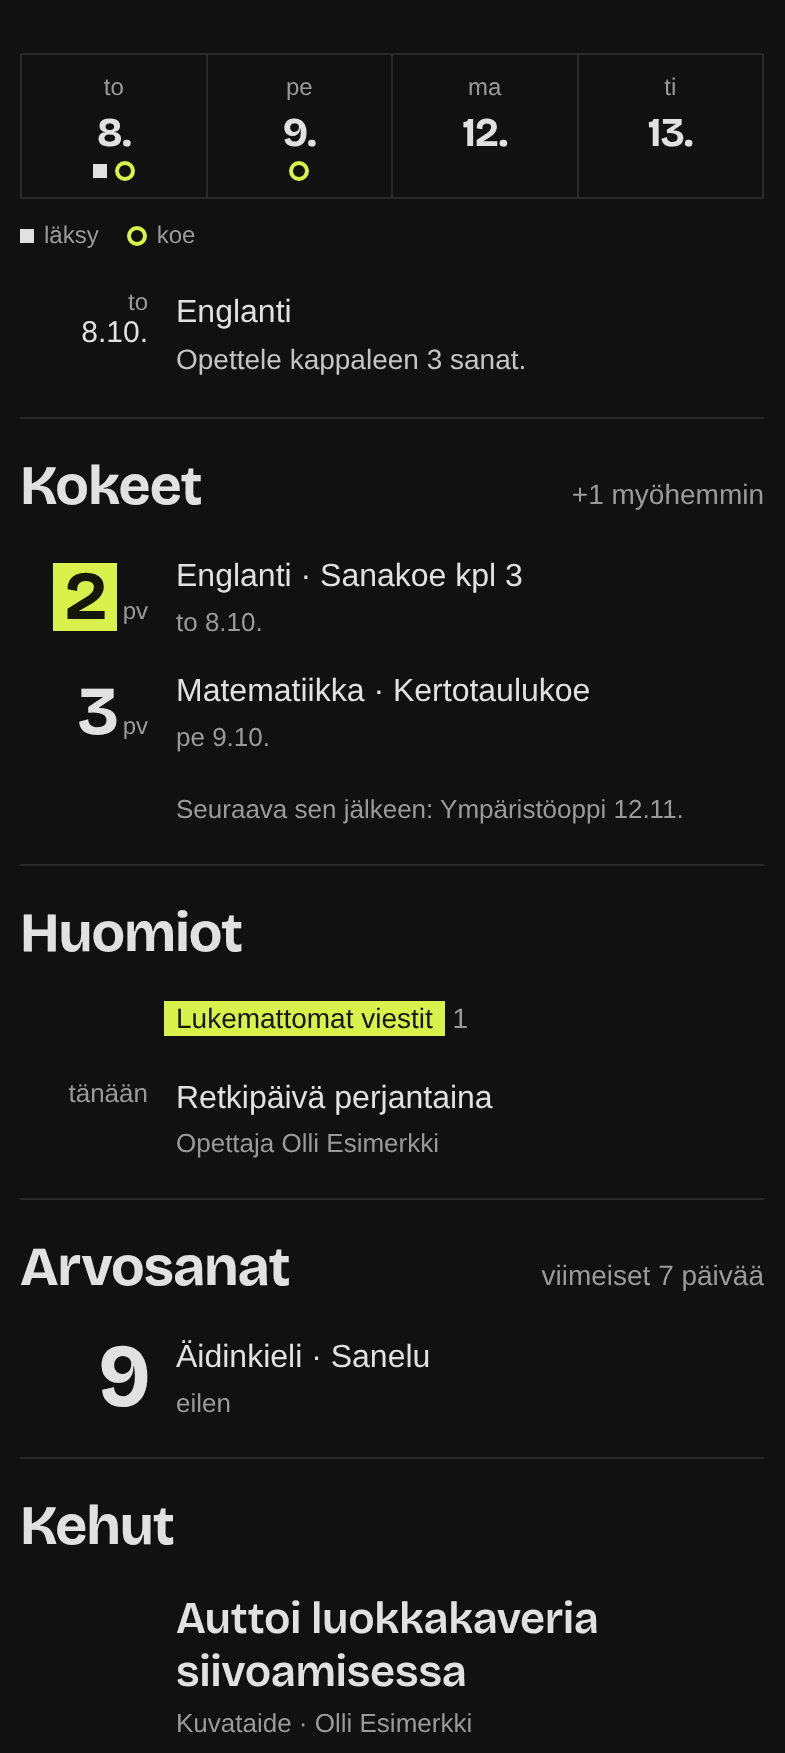
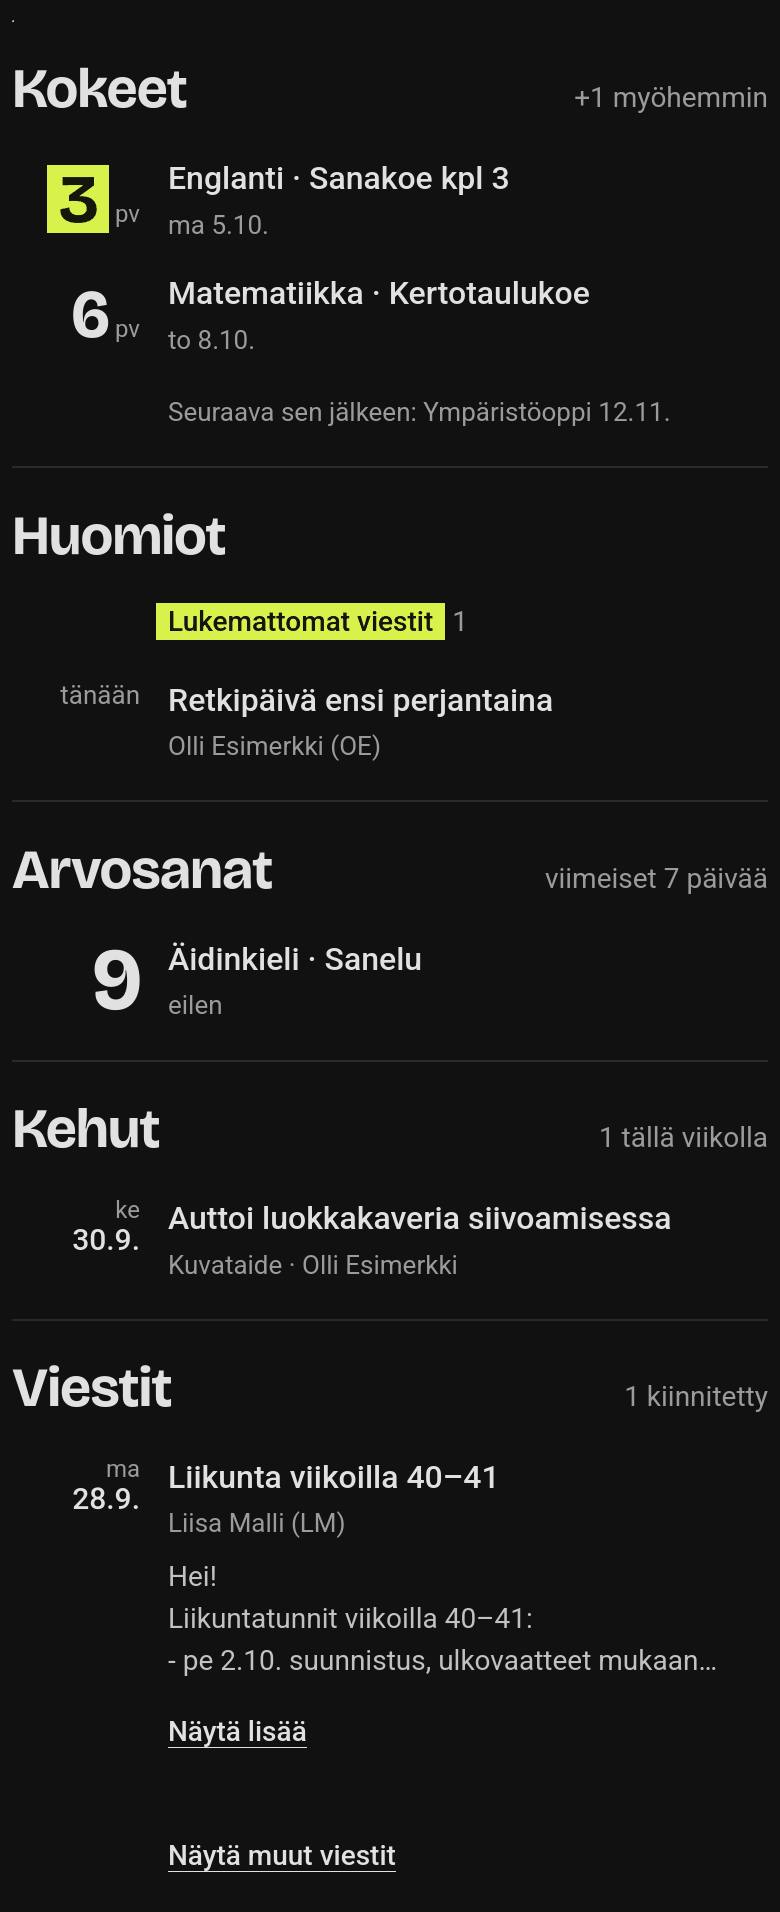
1.0.1: integration compatibility in the README, new screenshots
The README lists what the card shows with Tubbs10/ha-wilma 1.2.11 and
what is missing with mniittymaki/ha-wilma 1.2.10. The screenshots show
the Viestit section and the new praise rows.

diff --git a/dist/wilma-card.js b/dist/wilma-card.js
@@ -15,7 +15,7 @@
  * ks. test/model.test.mjs.
  */
 
-const VERSION = '1.0.0';
+const VERSION = '1.0.1';
 
 // Oppiaineet: [koodin alku tai sana nimessä, nimi]. Myöhempi osuma voittaa.
 const KOODIT = [

diff --git a/README.md b/README.md
@@ -5,11 +5,27 @@ Wilma-viestit, arvosanat ja kehut.
 
 <p>
   <img src="docs/kortti-1.png" width="320" alt="Kortin yläosa: koulupäivä aikajanana ja läksyt">
-  <img src="docs/kortti-2.png" width="320" alt="Kortin alaosa: viikkorivi, kokeet, huomiot, arvosanat ja kehut">
+  <img src="docs/kortti-2.png" width="320" alt="Kortin alaosa: kokeet, huomiot, arvosanat, kehut ja viestit">
 </p>
 
-Kortti tarvitsee [ha-wilma](https://github.com/mniittymaki/ha-wilma)-integraation.
-Asenna se ensin ja lisää Wilma-tilisi.
+## Wilma-integraatio
+
+Kortti lukee Wilma-integraation sensoreita. Asenna integraatio ensin ja lisää Wilma-tilisi.
+
+| Integraatio | Kortin ominaisuudet |
+|---|---|
+| [Tubbs10/ha-wilma](https://github.com/Tubbs10/ha-wilma) 1.2.11 tai uudempi | Kaikki |
+| [mniittymaki/ha-wilma](https://github.com/mniittymaki/ha-wilma) 1.2.10 | Kaikki paitsi alla luetellut |
+
+[![Avaa integraatio HACSissa](https://my.home-assistant.io/badges/hacs_repository.svg)](https://my.home-assistant.io/redirect/hacs_repository/?owner=Tubbs10&repository=ha-wilma&category=integration)
+
+Alkuperäisen integraation (mniittymaki/ha-wilma) kanssa puuttuvat:
+
+- **Viestit-osio:** viestien lukeminen kortissa ja kiinnittäminen. Asetuksen `pinned` säännöllä
+  kiinnitetystä viestistä näkyy otsikko, lähettäjä ja päivä.
+- **Kehun päivämäärä ja huomautukset** kouluissa, joiden Wilmasta alkuperäinen integraatio
+  ei saa tuntimerkinnän päivämäärää. Kortti näyttää huomautuksista viimeisen viikon merkinnät,
+  joten päiväämätön merkintä jää pois.
 
 ## Asennus
 
@@ -90,9 +106,9 @@ pinned:
 
 Kirjainkoolla ei ole väliä. Säännöllä kiinnitetty viesti poistetaan poistamalla sääntö.
 
-Osio tarvitsee Wilma-integraatiolta toiminnot `wilma.get_message`, `wilma.pin_message` ja
-`wilma.unpin_message` sekä **Uudet viestit** -sensorin attribuutit `messages` ja `pinned`.
-Ilman niitä kortti näyttää säännöllä kiinnitetystä viestistä otsikon, lähettäjän ja päivän.
+Osio käyttää integraation [Tubbs10/ha-wilma](https://github.com/Tubbs10/ha-wilma) toimintoja
+`wilma.get_message`, `wilma.pin_message` ja `wilma.unpin_message` sekä **Uudet viestit**
+-sensorin attribuutteja `messages` ja `pinned`.
 
 ## Mitä kortti näyttää
 
@@ -104,7 +120,8 @@ Ilman niitä kortti näyttää säännöllä kiinnitetystä viestistä otsikon, 
 - **Kokeet** kahden viikon sisällä ja päivät niihin.
 - **Huomiot.** Lukemattomat Wilma-viestit, selvitettävät tuntimerkinnät, huomautukset ja
   tiedotteet. Osio näkyy, kun siinä on sisältöä.
-- **Arvosanat** viimeiseltä viikolta ja **kehut**.
+- **Arvosanat** viimeiseltä viikolta.
+- **Kehut** päivämäärän, aineen ja opettajan kanssa.
 - **Viestit.** Kiinnitetyt viestit ja avattava lista uusimmista viesteistä.
 
 Keltavihreä korostus kertoo, mikä on seuraavaksi edessä. Muut värit tulevat Home Assistantin
